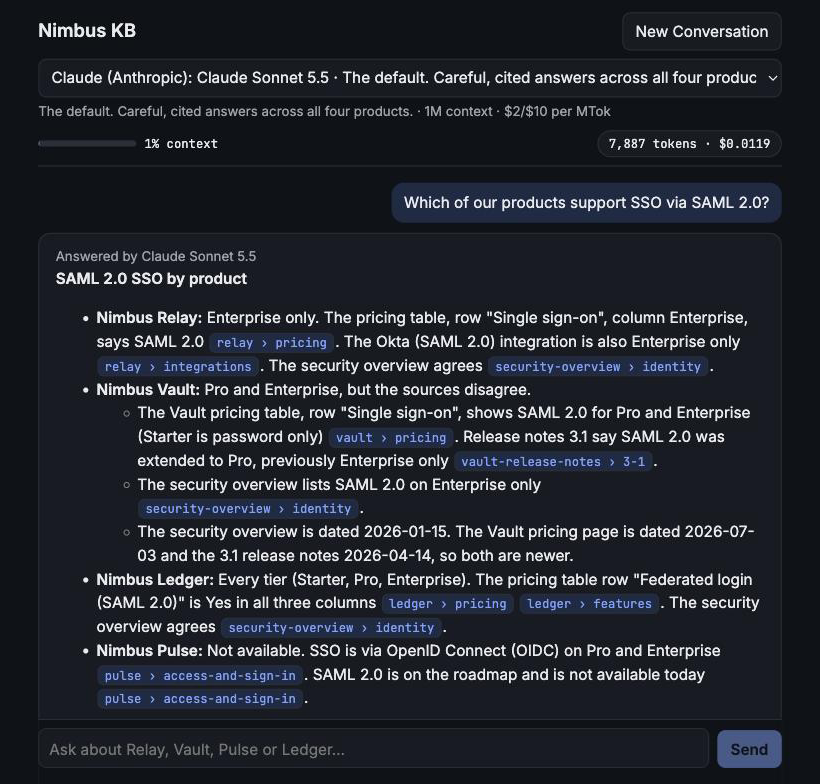
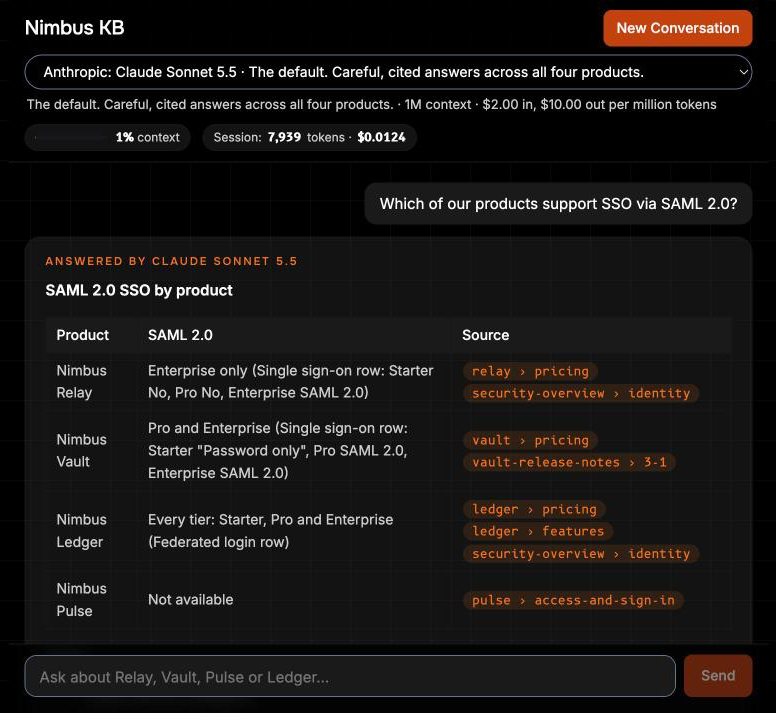
docs: refresh screenshot for the new look
Claude-Session: https://claude.ai/code/session_01HUL5ajUZY9PvAzfH8sixC6

diff --git a/README.md b/README.md
@@ -14,7 +14,7 @@
 The live site answers with Claude Sonnet 5.5, with Gemini 3.5 Flash-Lite as the backup. Each visitor gets 10 model answers a day, enough for the six sample questions and a few follow-ups, and the whole site gets 300 a day. After that, answers are sources-only (the matching passages from the knowledge base) plus how to run it yourself. Composed answers for every eval case are also in [`evals/results/latest.md`](evals/results/latest.md), and running it locally has no limit. The reasons are in [`docs/decisions.md`](docs/decisions.md).
 
 <div align="center">
-  <img src="docs/media/screenshot.png" alt="Nimbus KB running locally: Claude Sonnet 5.5 answers which products support SAML 2.0, product by product, with citation chips after each claim and the Vault disagreement called out" width="600"/>
+  <img src="docs/media/screenshot.png" alt="Nimbus KB running locally: Claude Sonnet 5.5 answers which products support SAML 2.0 in a table, product by product, with citation chips on every row" width="600"/>
   <br><sub>Q5 locally, answered by Claude Sonnet 5.5. Every claim carries a citation chip, and the Vault documents that disagree are both cited.</sub>
 </div>
 
